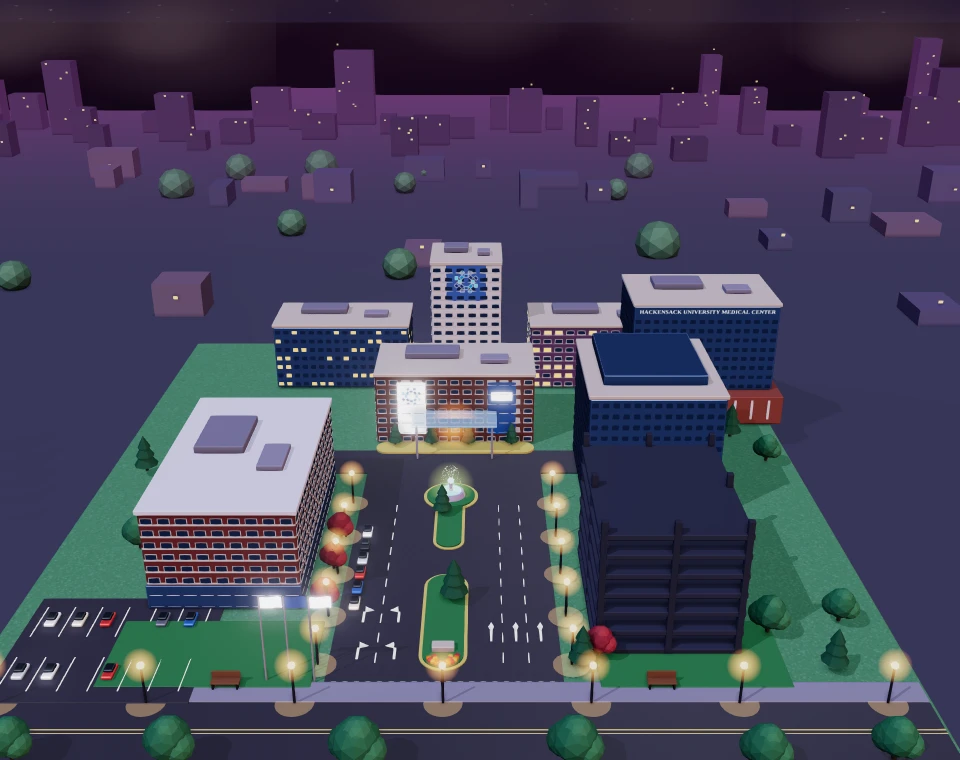
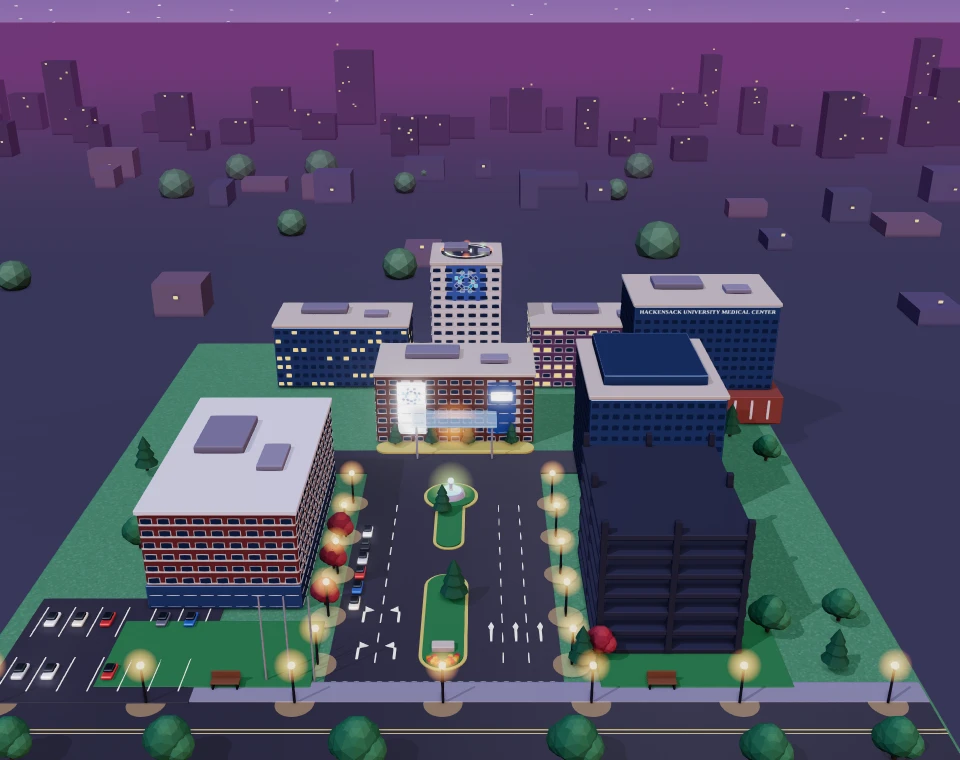
HUMC campus: alive
Cars drive the lanes along projected paths (each sprite rendered once,
moved and scaled per point), an ambulance pulls in and holds with its
light bar flashing, a helicopter lands on a new lit helipad on the white
tower and later lifts off, clouds drift, the three flags wave and the
fountain sprays (frame cycles), lit windows flicker, and Dr. Smiley's pin
stands beside the badge of the building to light next. Web Animations,
paused while the card is off screen; reduced motion shows a still scene.
User Guide answer and news card updated; feature note has the pipeline
(NOLIT reuses the lit layers).

Claude-Session: https://claude.ai/code/session_01ToNTDeo1NYGNDGdteqKeFT

Changed region(s): [[0.0, 0.0, 1.0, 0.1513], [0.25, 0.7263, 0.375, 0.8474], [0.4688, 0.3026, 0.5, 0.3632]]

diff --git a/index.html b/index.html
@@ -3409,7 +3409,7 @@
     animation:dashIn .42s var(--ease) backwards;
     animation-delay:calc(var(--i, 0) * 60ms + var(--motion-skip, 0s));
   }
-  .is-still:not(.study-flame), .is-still *:not(.study-flame, .cp-lights, .cp-fountain > i, .cp-tag.is-focus){ animation:none !important; }
+  .is-still:not(.study-flame), .is-still *:not(.study-flame, .cp-lit, .cp-flag, .cp-spray, .cp-veh img, .cp-dr, .cp-tag.is-focus){ animation:none !important; }
 
   .dash-row{ display:grid; grid-template-columns:1fr; gap:9px; max-width:760px; margin:0 0 26px 0; }
   @media (min-width:600px){ .dash-row{ grid-template-columns:1.6fr 1fr; align-items:start; } }
@@ -3712,24 +3712,27 @@
   .cp-key.is-focus{ background:#FFB443; color:#2a1a08; } .cp-key.is-focus i{ color:#7a3d00; }
   .cp-dot{ width:9px; height:9px; border-radius:50%; background:var(--dom); box-shadow:0 0 0 2px rgba(255,255,255,.5); }
   @keyframes cpBob{ 50%{ transform:translate(-50%,-100%) translateY(-3px); } }
-  .cp-lit{ pointer-events:none; mix-blend-mode:screen; animation:cpLight .9s ease-out backwards; animation-delay:calc(.25s + var(--i,0) * .12s + var(--motion-skip, 0s)); }
+  .cp-litw{ position:absolute; pointer-events:none; animation:cpLight .9s ease-out backwards; animation-delay:calc(.25s + var(--i,0) * .12s + var(--motion-skip, 0s)); }
+  .cp-litw img{ width:100%; height:100%; }
+  .cp-lit{ pointer-events:none; mix-blend-mode:screen; animation:cpFlick var(--fl, 3.5s) ease-in-out infinite; }
   @keyframes cpLight{ from{ opacity:0; } to{ opacity:1; } }
-  .cp-lights{ position:absolute; width:0; height:0; pointer-events:none; animation:cpDrive 7s linear infinite; }
-  .cp-lights.is-out{ animation-duration:9s; animation-delay:-3s; }
-  .cp-lights i{ position:absolute; top:-2px; width:3px; height:3px; border-radius:50%; background:#fff6dc; box-shadow:0 0 5px 2px rgba(255,230,170,.7); }
-  .cp-lights i:first-child{ left:-5px; } .cp-lights i:last-child{ left:2px; }
-  .cp-lights.is-out i{ background:#ff6b5e; box-shadow:0 0 5px 2px rgba(255,90,80,.6); }
-  @keyframes cpDrive{
-    0%  { transform:translate(calc(var(--fx) * 1cqw), calc(var(--fy) * 1cqw)); opacity:0; }
-    8%  { opacity:1; } 92% { opacity:1; }
-    100%{ transform:translate(calc(var(--tx) * 1cqw), calc(var(--ty) * 1cqw)); opacity:0; }
-  }
-  .cp-fountain{ position:absolute; width:0; height:0; pointer-events:none; }
-  .cp-fountain i{ position:absolute; width:3px; height:3px; margin:-1.5px; border-radius:50%; background:#dff6ff; box-shadow:0 0 4px #9fe3ff;
-    animation:cpSpray 1.6s ease-out infinite; }
-  .cp-fountain i:nth-child(2){ animation-delay:-.55s; --sx:-5px; } .cp-fountain i:nth-child(3){ animation-delay:-1.1s; --sx:5px; }
-  @keyframes cpSpray{ 0%{ transform:translate(0,0); opacity:0; } 20%{ opacity:1; } 100%{ transform:translate(var(--sx, 1px), -9px); opacity:0; } }
-  .cp-card.is-away .cp-lights, .cp-card.is-away .cp-fountain i, .cp-card.is-away .cp-tag.is-focus{ animation-play-state:paused; }
+  @keyframes cpFlick{ 0%,100%{ opacity:1; } 37%{ opacity:.9; } 61%{ opacity:.97; } 80%{ opacity:.88; } }
+  .cp-clouds{ mix-blend-mode:screen; opacity:.5; pointer-events:none; }
+  .cp-flag, .cp-spray{ pointer-events:none; animation:cpFrame calc(var(--n) * .28s) steps(1) infinite; animation-delay:calc(var(--f) * -.28s); }
+  .cp-spray{ mix-blend-mode:screen; animation-duration:calc(var(--n) * .16s); animation-delay:calc(var(--f) * -.16s); }
+  @keyframes cpFrame{ 0%{ opacity:1; } 25%{ opacity:1; } 25.01%{ opacity:0; } 100%{ opacity:0; } }
+  .cp-flag{ animation-name:cpFrame3; } @keyframes cpFrame3{ 0%,33.3%{ opacity:1; } 33.4%,100%{ opacity:0; } }
+  .cp-veh{ position:absolute; pointer-events:none; opacity:0; will-change:transform; }
+  .cp-veh img{ position:absolute; inset:0; width:100%; height:100%; }
+  .cp-amb img:last-child, .cp-heli img:last-child{ animation:cpBlink .36s steps(1) infinite; } .cp-amb img:first-child, .cp-heli img:first-child{ animation:cpBlink .36s steps(1) -.18s infinite; }
+  .cp-heli img{ animation-duration:.1s; } .cp-heli img:first-child{ animation-delay:-.05s; }
+  @keyframes cpBlink{ 0%,50%{ opacity:1; } 50.01%,100%{ opacity:0; } }
+  .cp-dr{ position:absolute; z-index:2; width:38px; height:38px; margin:-19px 0 0 -19px; border-radius:50%; overflow:hidden; background:#cfe6ff; border:2px solid #fff;
+    box-shadow:0 6px 14px rgba(10,6,30,.45); pointer-events:none; animation:cpDrBob 1.8s ease-in-out infinite; }
+  .cp-dr .ds-art{ width:100%; height:100%; display:block; }
+  @keyframes cpDrBob{ 50%{ transform:translateY(-4px); } }
+  .cp-say p small{ display:block; font-size:10px; font-weight:650; letter-spacing:.08em; text-transform:uppercase; color:#98A1B3; margin-bottom:2px; }
+  .cp-card.is-away .cp-lit, .cp-card.is-away .cp-flag, .cp-card.is-away .cp-spray, .cp-card.is-away .cp-veh img, .cp-card.is-away .cp-dr, .cp-card.is-away .cp-tag.is-focus{ animation-play-state:paused; }
   .cp-chips{ position:relative; display:flex; flex-wrap:wrap; gap:6px; margin-top:6px; }
   .cp-chip{ display:inline-flex; align-items:center; gap:5px; padding:6px 10px; border-radius:999px; font-size:12px; font-weight:550;
     color:rgba(255,255,255,.9); background:rgba(255,255,255,.14); }
@@ -3747,7 +3750,7 @@
   .cp-go button:focus-visible{ outline:2px solid #fff; outline-offset:3px; }
   @media (min-width:600px){ .cp-hud{ max-width:none; } .cp-say{ left:auto; width:300px; } }
   @media (prefers-reduced-motion: reduce){
-    .cp-lights, .cp-fountain i, .cp-tag.is-focus, .cp-lit{ animation:none !important; } .cp-lights{ display:none; }
+    .cp-lit, .cp-litw, .cp-flag, .cp-spray, .cp-veh, .cp-veh img, .cp-dr, .cp-tag.is-focus{ animation:none !important; } .cp-veh{ display:none; } .cp-flag:not([style*='--f:0']), .cp-spray:not([style*='--f:0']){ display:none; }
     .cp-go button{ transition:none; }
   }
 
@@ -13058,7 +13061,7 @@ function closeGuideSection(){ guideSection = null; refreshGuideList(); }
 const GUIDE_POPULAR = ['name', 'notfound', 'offline', 'edit'];
 // Newest first. A new feature gets a card here; the oldest drops off (its answer stays).
 const GUIDE_NEWS = [
-  { id:'practice',    tone:'gd-n1', pin:'pins/practice.webp',            eyebrow:'CoreCHI Practice',      title:'Your HUMC campus at dusk: each exam area is a building whose windows light up as you master it' },
+  { id:'practice',    tone:'gd-n1', pin:'pins/practice.webp',            eyebrow:'CoreCHI Practice',      title:'Your HUMC campus, alive at dusk: buildings light up as you master each exam area; cars, an ambulance and a helicopter come and go' },
   { id:'askmoves',    tone:'gd-n2', pin:'pins/wave.webp',                eyebrow:'Dr. Smiley',            title:'Dr. Smiley’s brows move now: up when he laughs, soft when he’s reassuring you' },
   { id:'smoothness',  tone:'gd-n3', pin:'pins/updates.webp',             eyebrow:'More',                  title:'Measure how smooth the app runs on your phone, and compare versions' },
 ];
@@ -16756,7 +16759,7 @@ const GUIDE_TOPICS = [
 
   { id:'practice', section:'study', k:'practice quiz test exam corechi cchi study certification ready readiness dashboard scores trend chart focus next weakest campus buildings city game crane hospital', q:'How do I practice for the CoreCHI exam?', a:`
     <p>Open <b>More</b> → <b>CoreCHI Practice</b> and start a quiz.</p>
-    <p>Questions are spread across the five official exam areas in the same proportions as the real thing. At the top is <b>your HUMC campus</b>: the main entrance off the street at dusk, with the drive, its flower bed, the fountain and the buildings around it. Each exam area is one building (Ethics the building with the banners at the end of the drive, Terminology the white tower with the HMH mark, U.S. Health Systems the building on the left, Encounter the Helena Theurer Pavilion, Cultural Responsiveness the dark tower on the right), and its windows light up as you master it, until the whole building glows. The big number is how ready you are. Tap a building or its label to practise that area; Dr. Smiley points at the one worth lighting next, and <b>Play</b> starts what's next. Under it, <b>Your scores</b> draws a line through your last 12 sessions: tap a point to see that session's score and date, tap it again to go back to the latest. <b>Focus next</b> names the area costing you the most on the exam, with <b>Practise it</b> to start on it. Press and hold any card and it tips toward your finger, then springs back when you let go.</p>
+    <p>Questions are spread across the five official exam areas in the same proportions as the real thing. At the top is <b>your HUMC campus</b>: the main entrance off the street at dusk, with the drive, its flower bed, the fountain and the buildings around it. Each exam area is one building (Ethics the building with the banners at the end of the drive, Terminology the white tower with the HMH mark, U.S. Health Systems the building on the left, Encounter the Helena Theurer Pavilion, Cultural Responsiveness the dark tower on the right), and its windows light up as you master it, until the whole building glows. The big number is how ready you are. Tap a building or its badge to practise that area; Dr. Smiley stands by the one worth lighting next, and <b>Play</b> starts what's next. The campus is alive: cars come and go up the drive, an ambulance pulls in with its lights going, a helicopter lands on the white tower's helipad, the flags wave and the fountain plays. It all pauses while the campus is off screen. Under it, <b>Your scores</b> draws a line through your last 12 sessions: tap a point to see that session's score and date, tap it again to go back to the latest. <b>Focus next</b> names the area costing you the most on the exam, with <b>Practise it</b> to start on it. Press and hold any card and it tips toward your finger, then springs back when you let go.</p>
     <p>Right under the campus, <b>Your domains</b> lists one row per building: how much of its question bank you've learned, how often you got it right in your sessions, and a <b>Practise</b> button. After each quiz you'll see which areas you're strongest and weakest in, which is the part worth paying attention to.</p>
     <p>These are practice questions written for studying. They are not real exam questions.</p>` },
 
@@ -20095,7 +20098,7 @@ function renderFocusTile(worst){
    building its lit windows at 1..10 tenths, occluded by everything in front. CAMPUS_MAP: w,h render size;
    g scene box [x,y,w,h]; b[key] = { label [x,y], box (tap area), lv: boxes of the 10 lit layers };
    f fountain [x,y]; drive: the two lanes' ends. */
-const CAMPUS_MAP = {"w":960,"h":760,"g":[0,0,960,760],"f":[451,480],"drive":[[368,738],[405,472],[510,472],[524,738]],"b":{"e":{"label":[455,348],"box":[374,334,161,109],"lv":[[366,357,90,98],[348,348,198,116],[343,344,206,132],[332,335,225,150],[324,326,240,165],[316,319,255,182],[313,310,267,196],[309,305,276,207],[305,300,284,219],[302,296,289,227]]},"t":{"label":[466,242],"box":[430,234,72,154],"lv":[[411,267,91,125],[398,251,128,152],[389,242,148,169],[379,226,175,190],[372,221,188,208],[362,214,203,228],[356,208,214,241],[350,200,227,255],[346,197,234,260],[341,191,246,271]]},"s":{"label":[242,436],"box":[134,389,201,219],"lv":[[121,452,232,181],[108,426,258,231],[89,406,292,264],[84,392,310,290],[76,388,326,303],[72,379,339,324],[61,374,355,341],[57,368,365,352],[54,364,376,362],[47,359,391,374]]},"c":{"label":[649,354],"box":[573,329,157,187],"lv":[[558,364,189,178],[537,353,215,209],[519,336,262,241],[509,323,282,264],[501,314,298,280],[492,304,312,299],[485,294,325,317],[476,288,338,331],[467,282,354,345],[459,275,369,359]]},"n":{"label":[700,278],"box":[617,292,163,125],"lv":[[613,301,178,104],[597,286,205,137],[582,262,234,179],[571,254,254,198],[562,245,268,213],[555,237,282,231],[548,228,292,248],[543,219,304,264],[538,209,313,283],[534,200,323,302]]}}};
+const CAMPUS_MAP = {"w":960,"h":760,"g":[0,0,960,760],"f":[451,480],"drive":[[368,738],[405,472],[510,472],[524,738]],"b":{"e":{"label":[455,348],"box":[374,334,161,109],"lv":[[366,357,90,98],[348,348,198,116],[343,344,206,132],[332,335,225,150],[324,326,240,165],[316,319,255,182],[313,310,267,196],[309,305,276,207],[305,300,284,219],[302,296,289,227]]},"t":{"label":[466,242],"box":[430,234,72,154],"lv":[[411,267,91,125],[398,251,128,152],[389,242,148,169],[379,226,175,190],[372,221,188,208],[362,214,203,228],[356,208,214,241],[350,200,227,255],[346,197,234,260],[341,191,246,271]]},"s":{"label":[242,436],"box":[134,389,201,219],"lv":[[121,452,232,181],[108,426,258,231],[89,406,292,264],[84,392,310,290],[76,388,326,303],[72,379,339,324],[61,374,355,341],[57,368,365,352],[54,364,376,362],[47,359,391,374]]},"c":{"label":[649,354],"box":[573,329,157,187],"lv":[[558,364,189,178],[537,353,215,209],[519,336,262,241],[509,323,282,264],[501,314,298,280],[492,304,312,299],[485,294,325,317],[476,288,338,331],[467,282,354,345],[459,275,369,359]]},"n":{"label":[700,278],"box":[617,292,163,125],"lv":[[613,301,178,104],[597,286,205,137],[582,262,234,179],[571,254,254,198],[562,245,268,213],[555,237,282,231],[548,228,292,248],[543,219,304,264],[538,209,313,283],[534,200,323,302]]}},"live":{"clouds":[0,0,960,251],"flags":[[258,596,74,13],[258,596,74,14],[258,596,74,13]],"spray":[[434,457,35,34],[435,456,34,34],[433,457,35,34],[434,456,34,33]],"carIn":{"img":[440,465,81,118],"ref":[513,575],"pts":[[522,738,1.204],[517,647,1.095],[513,575,1],[510,517,0.917],[508,468,0.845]]},"carOut":{"img":[382,465,80,121],"ref":[391,575],"pts":[[406,468,0.845],[399,517,0.917],[391,575,1],[381,647,1.095],[368,738,1.202]]},"amb":{"img":[[440,465,110,119],[440,465,104,119]],"ref":[536,574],"pts":[[550,735,1.204],[541,631,1.077],[534,546,0.961],[532,487,0.876],[547,460,0.835],[563,453,0.822]]},"heli":{"img":[[440,229,46,260],[440,229,46,260]],"ref":[466,244],"pts":[[802,116,0.82],[652,199,0.898],[532,176,0.979],[466,228,1.004],[466,244,1]],"pad":[466,244]}}};
 const CAMPUS = [
   { key:'e', id:'ethics',      short:'Ethics',      place:'the building with the banners' },
   { key:'t', id:'terminology', short:'Terminology', place:'the white tower' },
@@ -20130,7 +20133,7 @@ function renderCampus(ready, st, todayCount, goalPct, due, shaky, unseen){
   CAMPUS.forEach((b, i) => {
     const c = cover(b.id), lv = campusLevel(c), pct = Math.round(c*100), d = CCHI_DOMAINS.find(x => x.id === b.id) || {};
     sig.push(b.key + lv);
-    if (lv) lit += `<img class="cp-lit" src="./city/${b.key}-lit${lv}.webp" alt="" decoding="async" style="${pos(...M.b[b.key].lv[lv-1])};--i:${i}">`;
+    if (lv) lit += `<span class="cp-litw" style="${pos(...M.b[b.key].lv[lv-1])};--i:${i}"><img class="cp-lit" src="./city/${b.key}-lit${lv}.webp" alt="" decoding="async" style="--fl:${(3.2 + i*0.7).toFixed(1)}s"></span>`;
     hits += `<button class="cp-bld" style="${pos(...M.b[b.key].box)}" tabindex="-1" aria-hidden="true"
         onclick="requireName(()=>startStudy('domain','${b.id}'))"></button>`;
     tags += `<button class="cp-tag${b.id === worst ? ' is-focus' : ''}" style="${at(...tagsAt[b.key])};--dom:${d.color||'#888'}"
@@ -20138,11 +20141,18 @@ function renderCampus(ready, st, todayCount, goalPct, due, shaky, unseen){
     legend += `<button class="cp-key${b.id === worst ? ' is-focus' : ''}" style="--dom:${d.color||'#888'}" onclick="requireName(()=>startStudy('domain','${b.id}'))">
         <span class="cp-dot"></span>${escapeHtml(b.short)} <i>${pct}%</i></button>`;
   });
-  // headlights up and down the drive (in units of the picture's width)
-  const dr = M.drive, lane = (a, z) => `--fx:${((a[0]-z[0])/W*100).toFixed(2)};--fy:${((a[1]-z[1])/W*100).toFixed(2)}`;
-  const cars = `<span class="cp-lights is-in" style="${at(...dr[1])};${lane(dr[0], dr[1])};--tx:0;--ty:0"><i></i><i></i></span>
-    <span class="cp-lights is-out" style="${at(...dr[2])};--fx:0;--fy:0;--tx:${((dr[3][0]-dr[2][0])/W*100).toFixed(2)};--ty:${((dr[3][1]-dr[2][1])/W*100).toFixed(2)}"><i></i><i></i></span>`;
-  const sparkle = `<span class="cp-fountain" style="${at(...M.f)}"><i></i><i></i><i></i></span>`;
+  // the living layers: clouds, flags, the fountain's spray (frames), vehicles moved along their paths by campusLife()
+  const L = M.live, frames = (cls, arr) => arr.map((bx, i) => `<img class="${cls}" src="./city/${cls === 'cp-flag' ? 'flag' : 'spray'}${i}.webp" alt="" decoding="async" style="${pos(...bx)};--f:${i};--n:${arr.length}">`).join('');
+  const origin = (o, bx) => `transform-origin:${((o.ref[0]-bx[0])/bx[2]*100).toFixed(2)}% ${((o.ref[1]-bx[1])/bx[3]*100).toFixed(2)}%`;
+  const data = o => `data-ref="${o.ref.join(',')}" data-pts="${o.pts.map(p=>p.join(',')).join(';')}"`;
+  const live = `<img class="cp-clouds" src="./city/clouds.webp" alt="" decoding="async" style="${pos(...L.clouds)}">${frames('cp-flag', L.flags)}${frames('cp-spray', L.spray)}
+    <img class="cp-veh cp-car" src="./city/car-in.webp" alt="" decoding="async" ${data(L.carIn)} style="${pos(...L.carIn.img)};${origin(L.carIn, L.carIn.img)}">
+    <img class="cp-veh cp-car" src="./city/car-out.webp" alt="" decoding="async" ${data(L.carOut)} style="${pos(...L.carOut.img)};${origin(L.carOut, L.carOut.img)}">
+    <span class="cp-veh cp-amb" ${data(L.amb)} style="${pos(...L.amb.img[0])};${origin(L.amb, L.amb.img[0])}"><img src="./city/amb0.webp" alt="" decoding="async"><img src="./city/amb1.webp" alt="" decoding="async"></span>
+    <span class="cp-veh cp-heli" ${data(L.heli)} style="${pos(...L.heli.img[0])};${origin(L.heli, L.heli.img[0])}"><img src="./city/heli0.webp" alt="" decoding="async"><img src="./city/heli1.webp" alt="" decoding="async"></span>`;
+  // Dr. Smiley stands at the building to light next
+  const wk = worst ? CAMPUS.find(x => x.id === worst).key : null;
+  const dr = wk ? `<span class="cp-dr" style="${at(tagsAt[wk][0] - 46/K, tagsAt[wk][1] - 2/K)}">${drSmileyArt('ask-face')}</span>` : '';
   let say;
   if (!worst) say = 'Every window is lit. Sit an exam simulation to prove it!';
   else { const b = CAMPUS.find(x => x.id === worst); say = `Light up <b>${escapeHtml(b ? b.place : '')}</b>: ${escapeHtml(b ? b.short : ready.worst.d.name)} is ${ready.worst.d.weight}% of the exam.`; }
@@ -20155,10 +20165,10 @@ function renderCampus(ready, st, todayCount, goalPct, due, shaky, unseen){
       </div>
       <span>${escapeHtml(ready.title)}</span>
     </div>
-    <div class="cp-say"><span class="cp-face">${drSmileyArt('ask-face')}</span><p>${say}</p></div>
+    <div class="cp-say"><p><small>Dr. Smiley</small>${say}</p></div>
     <div class="cp-world" style="aspect-ratio:${W} / ${H}">
       <img class="cp-ground" src="./city/entrance.webp" alt="" decoding="async" style="${pos(...M.g)}">
-      ${lit}${sparkle}${cars}${hits}${tags}
+      ${lit}${live}${hits}${tags}${dr}
     </div>
     <div class="cp-chips">
       <span class="cp-chip study-streak"><i>${ICON_FLAME}</i><b class="study-flame js-count" data-to="${st.days||0}">${st.days||0}</b> day${(st.days||0)===1?'':'s'}</span>
@@ -20187,16 +20197,42 @@ function practiceMotionKeys(root){
   return keys;
 }
 
+/* The campus comes alive: vehicles follow their projected paths (each sprite was rendered at one
+   reference point; the path gives screen points and a scale per point), the ambulance pulls in and
+   holds with its lights flashing, the helicopter lands and later lifts off, clouds drift, flags and
+   the fountain cycle their frames, lit windows flicker. Web Animations, so they pause off screen. */
+let campusAnims = [];
+function campusLife(root){
+  campusAnims.forEach(a => a.cancel()); campusAnims = [];
+  const world = root.querySelector('.cp-world'); if (!world || reducedMotion()) return;
+  const W = CAMPUS_MAP.w;
+  const kf = el => { const ref = el.dataset.ref.split(',').map(Number), pts = el.dataset.pts.split(';').map(p => p.split(',').map(Number));
+    return pts.map(p => ({ transform: `translate(${((p[0]-ref[0])/W*100).toFixed(2)}cqw, ${((p[1]-ref[1])/W*100).toFixed(2)}cqw) scale(${p[2]})` })); };
+  const run = (el, frames, opts) => { const a = el.animate(frames, opts); campusAnims.push(a); return a; };
+  const at = (f, k) => ({ ...f, offset: k });
+  world.querySelectorAll('.cp-car').forEach((el, i) => { const f = kf(el);
+    run(el, [{ ...f[0], opacity:0 }, { ...f[0], opacity:1, offset:0.06 }, ...f.slice(1, -1).map((x, j) => at(x, 0.06 + 0.88*(j+1)/(f.length-1))), { ...f[f.length-1], opacity:1, offset:0.94 }, { ...f[f.length-1], opacity:0 }],
+      { duration: 9000 + i*2500, iterations: Infinity, delay: -i*4000, easing:'linear' }); });
+  const amb = world.querySelector('.cp-amb'); if (amb){ const f = kf(amb), n = f.length;
+    run(amb, [{ ...f[0], opacity:0, offset:0 }, { ...f[0], opacity:1, offset:0.02 }, ...f.slice(1).map((x, j) => at(x, 0.02 + 0.30*(j+1)/(n-1))), { ...f[n-1], opacity:1, offset:0.78 }, { ...f[n-1], opacity:0, offset:0.82 }, { ...f[n-1], opacity:0, offset:1 }],
+      { duration: 34000, iterations: Infinity, delay: -6000, easing:'linear' }); }
+  const heli = world.querySelector('.cp-heli'); if (heli){ const f = kf(heli), n = f.length, land = f.slice(0, n), lift = f.slice().reverse();
+    run(heli, [{ ...f[0], opacity:0, offset:0 }, { ...f[0], opacity:1, offset:0.02 }, ...land.slice(1).map((x, j) => at(x, 0.02 + 0.26*(j+1)/(n-1))), { ...f[n-1], offset:0.55 },
+        ...lift.slice(1).map((x, j) => at(x, 0.55 + 0.26*(j+1)/(n-1))), { ...f[0], opacity:1, offset:0.84 }, { ...f[0], opacity:0, offset:0.88 }, { ...f[0], opacity:0, offset:1 }],
+      { duration: 48000, iterations: Infinity, delay: -20000, easing:'ease-in-out' }); }
+  const clouds = world.querySelector('.cp-clouds'); if (clouds) run(clouds, [{ transform:'translateX(-1.2cqw)' }, { transform:'translateX(1.2cqw)' }], { duration: 70000, iterations: Infinity, direction:'alternate', easing:'ease-in-out' });
+}
 // The campus cars and fountain run only while the card is on screen.
 let campusWatch = null;
 function watchCampus(root){
   const card = root.querySelector('.cp-card');
   if (campusWatch) { campusWatch.disconnect(); campusWatch = null; }
   if (!card || !('IntersectionObserver' in window)) return;
-  campusWatch = new IntersectionObserver(es => es.forEach(e => card.classList.toggle('is-away', !e.isIntersecting)));
+  campusWatch = new IntersectionObserver(es => es.forEach(e => { card.classList.toggle('is-away', !e.isIntersecting); campusAnims.forEach(a => e.isIntersecting ? a.play() : a.pause()); }));
   campusWatch.observe(card);
 }
 function playPracticeMotion(root, prev){
+  campusLife(root);
   watchCampus(root);
   const now = performance.now();
   const still = reducedMotion();

diff --git a/docs/mockups/cchi-city/entrance.html b/docs/mockups/cchi-city/entrance.html
@@ -32,7 +32,7 @@ const pmrem = new THREE.PMREMGenerator(renderer); scene.environment = pmrem.from
 scene.traverse(()=>{});
 const BASE = new THREE.Group(); scene.add(BASE); let G = BASE;
 // soft additive glows (lamps, fountain): hidden while the lit-window layers are captured
-const GLOWS = [];
+const GLOWS = [], CLOUDS = [], FLAGS = [], LIVE = [];   // LIVE: things captured on their own, hidden from the base
 const glowTex = (() => { const c = document.createElement('canvas'); c.width = c.height = 128; const g = c.getContext('2d');
   const r = g.createRadialGradient(64,64,0,64,64,64); r.addColorStop(0,'rgba(255,236,190,1)'); r.addColorStop(.25,'rgba(255,200,120,.55)'); r.addColorStop(1,'rgba(255,170,80,0)');
   g.fillStyle = r; g.fillRect(0,0,128,128); const t = new THREE.CanvasTexture(c); t.colorSpace = THREE.SRGBColorSpace; return t; })();
@@ -67,7 +67,7 @@ function noiseTex(base, spot, n=2600, size=256, rep=8){ const c = document.creat
     for (let i=0;i<9;i++){ const x = 60+Math.random()*136, y = 110+Math.random()*60, r = 40+Math.random()*50; const rg = g.createRadialGradient(x,y,0,x,y,r); rg.addColorStop(0,'rgba(255,225,235,.55)'); rg.addColorStop(1,'rgba(255,225,235,0)'); g.fillStyle = rg; g.fillRect(0,0,256,256); }
     const t = new THREE.CanvasTexture(c); t.colorSpace = THREE.SRGBColorSpace; return t; })();
   for (const [x,y,z,sx] of [[-70,14,-150,70],[20,17,-170,85],[85,12,-150,65],[-30,20,-180,95],[55,23,-190,100]]){
-    const sp = new THREE.Sprite(new THREE.SpriteMaterial({ map:puff, transparent:true, depthWrite:false, opacity:0.9 })); sp.position.set(x,y,z); sp.scale.set(sx, sx*0.5, 1); scene.add(sp); }
+    const sp = new THREE.Sprite(new THREE.SpriteMaterial({ map:puff, transparent:true, depthWrite:false, opacity:0.9 })); sp.position.set(x,y,z); sp.scale.set(sx, sx*0.5, 1); scene.add(sp); CLOUDS.push(sp); }
   // the far skyline: dark blocks with a few lit windows, behind the campus
   let sd = 3; const srnd = () => (sd = (sd*16807)%2147483647)/2147483647;
   for (let i=0;i<60;i++){ const x = -135 + i*4.6 + srnd()*2, z = -105 - srnd()*35, w = 2.5+srnd()*4, h = (srnd() < 0.15 ? 9 : 2.5) + srnd()*5;
@@ -188,17 +188,20 @@ for (const [x,z,s,k] of [[14.2,9.0,0.9,'round'],[16.4,11.4,0.8,'cone'],[17.6,8.2
 // three flagpoles by the mouth of the drive, flags caught in a breeze
 for (const [x, col] of [[-7.4, 0xf4f6fa], [-6.4, 0x1f3f7a], [-5.4, 0xf4f6fa]]){
   add(new THREE.CylinderGeometry(0.035, 0.045, 4.2, 8), M(0xd8dbe3, {r:0.4, m:0.6}), x, 2.35, 12.0);
-  const fg = new THREE.PlaneGeometry(0.9, 0.55, 12, 4); const pos = fg.attributes.position; for (let i=0;i<pos.count;i++){ const u = (pos.getX(i)+0.45)/0.9; pos.setZ(i, Math.sin(u*6.0)*0.07*u); } fg.computeVertexNormals();
-  const fl = new THREE.Mesh(fg, new THREE.MeshStandardMaterial({ color:col, side:THREE.DoubleSide, roughness:0.8 })); fl.position.set(x+0.47, 4.15, 12.0); fl.castShadow = true; G.add(fl); }
+  const fg = new THREE.PlaneGeometry(0.9, 0.55, 12, 4);
+  const fl = new THREE.Mesh(fg, new THREE.MeshStandardMaterial({ color:col, side:THREE.DoubleSide, roughness:0.8 })); fl.position.set(x+0.47, 4.15, 12.0); fl.castShadow = true; G.add(fl); FLAGS.push(fl); }
+function waveFlags(ph){ for (const fl of FLAGS){ const pos = fl.geometry.attributes.position; for (let i=0;i<pos.count;i++){ const u = (pos.getX(i)+0.45)/0.9; pos.setZ(i, Math.sin(u*6.0 + ph)*0.07*u); } pos.needsUpdate = true; fl.geometry.computeVertexNormals(); } }
+waveFlags(0);
 // a glass canopy over the banner building's doors, lit underneath
 box(5.0, 0.12, 2.2, new THREE.MeshStandardMaterial({ color:0x9fc4dd, roughness:0.1, metalness:0.3, transparent:true, opacity:0.55 }), 0, 2.4, -8.8, 0.03);
 for (const x of [-2.2, 2.2]) add(new THREE.CylinderGeometry(0.06,0.06,2.1,8), M(0xd8dbe3,{r:0.4,m:0.6}), x, 1.35, -7.8);
 glow(0, 2.1, -8.6, 3.0, 0xffe0b0);
 // the fountain's spray: a cone of droplets
-{ const n = 260, pos = new Float32Array(n*3); let r = 9; const rr = () => (r = (r*16807)%2147483647)/2147483647;
+let SPRAY = null;
+function spray(seed){ if (SPRAY) scene.remove(SPRAY); const n = 260, pos = new Float32Array(n*3); let r = seed; const rr = () => (r = (r*16807)%2147483647)/2147483647;
   for (let i=0;i<n;i++){ const a = rr()*Math.PI*2, t = rr(), rad = 0.05 + t*0.55; pos[i*3] = -0.1 + Math.cos(a)*rad; pos[i*3+1] = 1.25 + Math.sin(t*Math.PI)*0.9 - t*0.3; pos[i*3+2] = -3.4 + Math.sin(a)*rad; }
   const g = new THREE.BufferGeometry(); g.setAttribute('position', new THREE.BufferAttribute(pos, 3));
-  const pts = new THREE.Points(g, new THREE.PointsMaterial({ color:0xdff6ff, size:0.07, transparent:true, opacity:0.85, depthWrite:false })); scene.add(pts); GLOWS.push(pts); }
+  SPRAY = new THREE.Points(g, new THREE.PointsMaterial({ color:0xdff6ff, size:0.08, transparent:true, opacity:0.9, depthWrite:false })); scene.add(SPRAY); return SPRAY; }
 // benches along the sidewalk
 for (const x of [-9, 9]) { box(1.2, 0.08, 0.4, M(0x8a5a3c), x, 0.55, 12.4, 0.02); box(1.2, 0.35, 0.06, M(0x8a5a3c), x, 0.75, 12.2, 0.02); for (const dx of [-0.5,0.5]) box(0.08,0.3,0.4, M(0x2c2c36), x+dx, 0.4, 12.4, 0.01); }
 let TEX = null; const pend = [];
@@ -239,6 +242,42 @@ pend.push(() => { const c = document.createElement('canvas'); c.width = 1024; c.
   g.fillStyle = '#e8f0ff'; g.font = 'bold 44px Georgia, serif'; g.textAlign = 'center'; g.textBaseline = 'middle'; g.fillText('HACKENSACK UNIVERSITY MEDICAL CENTER', 512, 34);
   const t = new THREE.CanvasTexture(c); t.colorSpace = THREE.SRGBColorSpace;
   const p = new THREE.Mesh(new THREE.PlaneGeometry(8.4, 0.52), new THREE.MeshBasicMaterial({ map:t, transparent:true })); p.position.set(15.5, 0.3 + 3*FL + 9*FL - 0.33, -13.56); BASE.add(p); });
+// ---- the helipad on the white tower's roof: pad, lit H, edge lights ----
+const PAD = { x:0.6, y:0.3 + 14*FL + 0.22 + 0.06, z:-20.5 };
+add(new THREE.CylinderGeometry(1.7, 1.7, 0.06, 32), M(0x3a3d4c, {r:0.9}), PAD.x, PAD.y, PAD.z, false);
+add(new THREE.RingGeometry(1.35, 1.5, 32), new THREE.MeshBasicMaterial({ color:0xf4f6fa, side:THREE.DoubleSide }), PAD.x, PAD.y+0.035, PAD.z, false).rotation.x = -Math.PI/2;
+for (const [w,h,dx] of [[0.14,0.9,-0.3],[0.14,0.9,0.3],[0.5,0.14,0]]){ const hm = new THREE.Mesh(new THREE.PlaneGeometry(w,h), new THREE.MeshBasicMaterial({ color:0xf4f6fa })); hm.rotation.x = -Math.PI/2; hm.position.set(PAD.x+dx, PAD.y+0.04, PAD.z); G.add(hm); }
+for (let i=0;i<8;i++){ const a = i/8*Math.PI*2; glow(PAD.x+Math.cos(a)*1.55, PAD.y+0.08, PAD.z+Math.sin(a)*1.55, 0.6, i%2 ? 0x8fe3ff : 0xffb070); }
+
+// ---- the living things, built once each, captured on their own (hidden from the base) ----
+function vehicle(kind, col){ const g = new THREE.Group();
+  const paint = new THREE.MeshStandardMaterial({ color:col, roughness:0.3, metalness:0.45, envMapIntensity:0.6 }), glassM = new THREE.MeshStandardMaterial({ color:0x1f2633, roughness:0.1, metalness:0.6, envMapIntensity:1.5 });
+  if (kind === 'amb'){ const b1 = new THREE.Mesh(new RoundedBoxGeometry(0.62,0.42,1.3,2,0.06), paint); b1.position.y = 0.36; b1.castShadow = true; g.add(b1);
+    const cab = new THREE.Mesh(new RoundedBoxGeometry(0.58,0.3,0.42,2,0.06), paint); cab.position.set(0,0.3,0.78); cab.castShadow = true; g.add(cab);
+    const ws = new THREE.Mesh(new THREE.BoxGeometry(0.5,0.16,0.04), glassM); ws.position.set(0,0.4,0.99); g.add(ws);
+    const stripe = new THREE.Mesh(new THREE.BoxGeometry(0.63,0.08,1.3), M(0xd43a3a)); stripe.position.y = 0.3; g.add(stripe);
+    const bar = new THREE.Mesh(new THREE.BoxGeometry(0.5,0.07,0.12), M(0x2b2f3a)); bar.position.set(0,0.6,0.55); g.add(bar);
+    g.userData.lights = [[-0.17,0.63,0.55],[0.17,0.63,0.55]]; }
+  else if (kind === 'heli'){ const body = new THREE.Mesh(new THREE.SphereGeometry(0.42, 16, 12), paint); body.scale.set(1,0.7,1.6); body.castShadow = true; g.add(body);
+    const tail = new THREE.Mesh(new THREE.CylinderGeometry(0.05,0.1,1.5,8), paint); tail.rotation.x = Math.PI/2; tail.position.set(0,0.08,-1.2); g.add(tail);
+    const fin = new THREE.Mesh(new THREE.BoxGeometry(0.04,0.4,0.3), paint); fin.position.set(0,0.3,-1.9); g.add(fin);
+    const can = new THREE.Mesh(new THREE.SphereGeometry(0.3,12,10), glassM); can.scale.set(0.9,0.7,1); can.position.set(0,0.1,0.35); g.add(can);
+    for (const dx of [-0.25,0.25]){ const sk = new THREE.Mesh(new THREE.BoxGeometry(0.05,0.04,1.1), M(0x2b2f3a)); sk.position.set(dx,-0.4,0); g.add(sk); }
+    const rotor = new THREE.Group(); for (let k=0;k<4;k++){ const bl = new THREE.Mesh(new THREE.BoxGeometry(0.08,0.02,2.6), M(0x1b1e26)); bl.rotation.y = k*Math.PI/4; rotor.add(bl); } rotor.position.y = 0.42; g.add(rotor); g.userData.rotor = rotor;
+    g.userData.lights = [[0,-0.1,0.9]]; }
+  else { const b1 = new THREE.Mesh(new RoundedBoxGeometry(0.5,0.2,1.0,2,0.07), paint); b1.position.y = 0.2; b1.castShadow = true; g.add(b1);
+    const b2 = new THREE.Mesh(new RoundedBoxGeometry(0.44,0.16,0.52,2,0.06), glassM); b2.position.set(0,0.36,-0.05); g.add(b2);
+    g.userData.lights = [[-0.17,0.2,0.5],[0.17,0.2,0.5]]; }
+  for (const [lx,ly,lz] of g.userData.lights){ const h = new THREE.Mesh(new THREE.SphereGeometry(0.045,8,6), new THREE.MeshBasicMaterial({ color:0xfff6dc })); h.position.set(lx,ly,lz); g.add(h);
+    const gl = new THREE.Sprite(new THREE.SpriteMaterial({ map:glowTex, color:0xfff1c8, blending:THREE.AdditiveBlending, depthWrite:false, transparent:true })); gl.position.set(lx,ly,lz+0.05); gl.scale.set(0.5,0.5,1); g.add(gl); }
+  g.visible = false; scene.add(g); LIVE.push(g); return g; }
+const CAR_IN = vehicle('car', 0xf2c94c), CAR_OUT = vehicle('car', 0xc9ccd6), AMB = vehicle('amb', 0xf4f6fa), HELI = vehicle('heli', 0x2f5fa6);
+// ambulance light bar: two frames, red and blue
+function ambLights(frame){ AMB.children.filter(c => c.userData.lamp).forEach(c => AMB.remove(c));
+  for (const [i,[lx,ly,lz]] of [[-0.17,0.63,0.55],[0.17,0.63,0.55]].entries()){ const on = (i === frame);
+    const lamp = new THREE.Mesh(new THREE.BoxGeometry(0.16,0.08,0.1), new THREE.MeshBasicMaterial({ color: on ? (i ? 0x3b7bff : 0xff3b3b) : 0x55303a })); lamp.position.set(lx,ly,lz); lamp.userData.lamp = true; AMB.add(lamp);
+    if (on){ const gl = new THREE.Sprite(new THREE.SpriteMaterial({ map:glowTex, color: i ? 0x6fa0ff : 0xff5a5a, blending:THREE.AdditiveBlending, depthWrite:false, transparent:true })); gl.position.set(lx,ly+0.05,lz); gl.scale.set(1.3,1.3,1); gl.userData.lamp = true; AMB.add(gl); } } }
+
 // ---- capture pipeline ----
 const depthOnly = new THREE.MeshBasicMaterial({ colorWrite:false });
 const tmp = document.createElement('canvas'); tmp.width = W; tmp.height = H; const tctx = tmp.getContext('2d', { willReadFrequently:true });
@@ -257,6 +296,7 @@ function pack(img, q){ let x0=W,y0=H,x1=-1,y1=-1; const d = img.data;
   if(x1<0) return null; const w=x1-x0+1, h=y1-y0+1, c=document.createElement('canvas'); c.width=w; c.height=h; c.getContext('2d').putImageData(img, -x0, -y0);
   return { x:x0, y:y0, w, h, data:c.toDataURL('image/webp', q) }; }
 function capBase(){ full.render(); const img = grab(); return pack(img, 0.9); }
+function capAlpha(q=0.86){ renderer.render(scene, cam); const img = grab(); return pack(img, q); }
 function capLit(){ litC.render(); const img = grab(), d = img.data;
   for (let i=0;i<d.length;i+=4){ const l = Math.max(d[i], d[i+1], d[i+2]); d[i+3] = l < 5 ? 0 : Math.min(255, Math.round(l*1.1)); }
   return pack(img, 0.72); }
@@ -264,14 +304,40 @@ const proj = (x,y,z) => { const v = new THREE.Vector3(x,y,z).project(cam); retur
 function bbox(key){ const b = BOX[key]; let x0=W,y0=H,x1=0,y1=0;
   for (const dx of [-1,1]) for (const dz of [-1,1]) for (const y of [0.3, 0.3+b.h]){ const [px,py] = proj(b.x+dx*b.w/2, y, b.z+dz*b.d/2); x0=Math.min(x0,px); x1=Math.max(x1,px); y0=Math.min(y0,py); y1=Math.max(y1,py); }
   return [x0, y0, x1-x0, y1-y0]; }
-window.__run = async () => {
+window.__run = async (nolit) => {
   TEX = await new Promise(r => { const t = new THREE.TextureLoader().load('hmh-mark-square.png', () => r(t)); }); TEX.colorSpace = THREE.SRGBColorSpace; pend.forEach(f => f());
-  const out = { W, H, base: capBase(), b:{} };
+  CLOUDS.forEach(c => c.visible = false); FLAGS.forEach(f => f.visible = false); if (SPRAY) SPRAY.visible = false;
+  const out = { W, H, base: capBase(), b:{}, live:{} };
+  // everything but the subject writes depth only; the subject keeps its look
+  const everything = []; scene.traverse(o => { if (o.isMesh || o.isSprite || o.isPoints) everything.push(o); });
+  const matOf = new Map(everything.map(o => [o, o.material]));
+  const fogKeep0 = scene.fog;
+  const alone = (subject, fn) => { scene.fog = null; scene.background = null; everything.forEach(o => { o.material = depthOnly; }); GLOWS.forEach(g => g.visible = false);
+    const show = []; subject.traverse(o => { if (matOf.has(o)) { o.material = matOf.get(o); } show.push([o, o.visible]); o.visible = true; });
+    const r = fn(); show.forEach(([o,v]) => o.visible = v); everything.forEach(o => { o.material = matOf.get(o); }); GLOWS.forEach(g => g.visible = true); scene.fog = fogKeep0; return r; };
+  const aloneLit = (subject, fn) => { scene.fog = null; scene.background = new THREE.Color(0x000000); everything.forEach(o => { o.material = depthOnly; }); GLOWS.forEach(g => g.visible = false);
+    const show = []; subject.traverse(o => { if (matOf.has(o)) { o.material = matOf.get(o); } show.push([o, o.visible]); o.visible = true; });
+    const r = fn(); show.forEach(([o,v]) => o.visible = v); everything.forEach(o => { o.material = matOf.get(o); }); GLOWS.forEach(g => g.visible = true); scene.fog = fogKeep0; scene.background = null; return r; };
+  const cloudsG = new THREE.Group(); CLOUDS.forEach(c => cloudsG.add(c)); scene.add(cloudsG);
+  out.live.clouds = aloneLit(cloudsG, () => capLit());
+  const flagsG = new THREE.Group(); FLAGS.forEach(f => flagsG.add(f)); scene.add(flagsG);
+  out.live.flags = [0, 2.1, 4.2].map(ph => { waveFlags(ph); return alone(flagsG, () => capAlpha(0.8)); });
+  out.live.spray = [9, 31, 57, 83].map(seed => { const p = spray(seed); const r = aloneLit(p, () => capLit()); return r; });
+  // vehicles: each rendered once at a reference point; the app moves and scales it along its path
+  const P3 = (x,y,z) => { const v = new THREE.Vector3(x,y,z); const d = v.distanceTo(cam.position); const pr = v.project(cam); return [Math.round((pr.x+1)/2*W), Math.round((1-pr.y)/2*H), d]; };
+  const path = (pts, ref) => { const r = P3(...ref); return { ref:[r[0], r[1]], pts: pts.map(p => { const q = P3(...p); return [q[0], q[1], +(r[2]/q[2]).toFixed(3)]; }) }; };
+  const place = (g, x, y, z, ry) => { g.position.set(x, y, z); g.rotation.y = ry; g.visible = true; };
+  place(CAR_IN, 3.1, 0.2, 4.5, Math.PI); out.live.carIn = { img: alone(CAR_IN, () => capAlpha()), ...path([[3.1,0.4,15.5],[3.1,0.4,10],[3.1,0.4,4.5],[3.1,0.4,-1],[3.1,0.4,-6.5]], [3.1,0.4,4.5]) }; CAR_IN.visible = false;
+  place(CAR_OUT, -2.8, 0.2, 4.5, 0); out.live.carOut = { img: alone(CAR_OUT, () => capAlpha()), ...path([[-2.8,0.4,-6.5],[-2.8,0.4,-1],[-2.8,0.4,4.5],[-2.8,0.4,10],[-2.8,0.4,15.5]], [-2.8,0.4,4.5]) }; CAR_OUT.visible = false;
+  place(AMB, 4.2, 0.2, 4.5, Math.PI); out.live.amb = { img: [0,1].map(f => { ambLights(f); return alone(AMB, () => capAlpha()); }), ...path([[4.2,0.5,15.5],[4.2,0.5,9],[4.2,0.5,2],[4.4,0.5,-4],[5.4,0.5,-7.2],[6.4,0.5,-8.2]], [4.2,0.5,4.5]) }; AMB.visible = false;
+  place(HELI, PAD.x, PAD.y + 0.5, PAD.z, Math.PI*0.15); out.live.heli = { img: [0, Math.PI/8].map(a => { HELI.userData.rotor.rotation.y = a; return alone(HELI, () => capAlpha()); }), pad: P3(PAD.x, PAD.y+0.5, PAD.z).slice(0,2),
+    ...path([[26,16,-34],[14,11,-28],[5,PAD.y+4.5,-23],[PAD.x,PAD.y+1.6,PAD.z],[PAD.x,PAD.y+0.5,PAD.z]], [PAD.x, PAD.y+0.5, PAD.z]) }; HELI.visible = false;
+  CLOUDS.forEach(c => c.visible = true); FLAGS.forEach(f => f.visible = true);
   // lit layers: only the chosen windows draw (warm), everything else writes depth only
   const all = []; scene.traverse(o => { if (o.isMesh || o.isSprite || o.isPoints) all.push(o); });
   const fogKeep = scene.fog; scene.fog = null; scene.background = new THREE.Color(0x000000);
   const keep = new Map(all.map(o => [o, o.material]));
-  for (const key of Object.keys(WINDOWS)){
+  for (const key of (nolit ? [] : Object.keys(WINDOWS))){
     const wins = WINDOWS[key].slice(); for (let i = wins.length - 1; i > 0; i--){ const j = Math.floor(rnd()*(i+1)); [wins[i], wins[j]] = [wins[j], wins[i]]; }
     out.b[key] = { label: proj(...LABEL_AT[key]), box: bbox(key), lv: [] };
     GLOWS.forEach(g => g.visible = false);

diff --git a/docs/features/practice-dashboard.md b/docs/features/practice-dashboard.md
@@ -72,3 +72,20 @@ The legend chips are gone: the live screen's Your domains rows
 naming its building (`CAMPUS[].place`). The HUD keeps the live screen's glossy readiness donut (`.ready-ring`,
 `animateReadyRing`; Jose, 2026-10-19: "a combination" of the two looks).
 Dr. Smiley in the card is an `ask-face`, so the dock's Dr. Smiley steps aside.
+
+**Alive** (Jose, 2026-10-19: "beautiful and alive"; he picked the living
+scene). The render also captures, each on its own and hidden from the base:
+clouds (screen-blended, drifting), three flag frames and four fountain-spray
+frames (cycled with CSS steps), and four vehicles (a car in, a car out, an
+ambulance with two light-bar frames, a helicopter with two rotor frames),
+each rendered once at a reference point with its path as screen points +
+scale per point (`CAMPUS_MAP.live`). `campusLife(root)` moves them with the
+Web Animations API (`campusAnims`): cars loop the lanes, the ambulance pulls
+in and holds flashing, the helicopter lands on the white tower's helipad
+(added to the scene) and later lifts off; `watchCampus` pauses them off
+screen. Lit windows flicker (`.cp-lit`, inside a `.cp-litw` that carries the
+entrance fade). Dr. Smiley's pin (`.cp-dr`, an `ask-face`) stands beside the
+badge of the building to light next; the HUD bubble is text only. Reduced
+motion: vehicles hidden, first frame of flags and spray, no flicker.
+Re-render with `NOLIT=<old entrance.json> node buildentr.cjs out` to keep
+the 50 lit layers (the live things take ~3 min, the lit set ~25).
